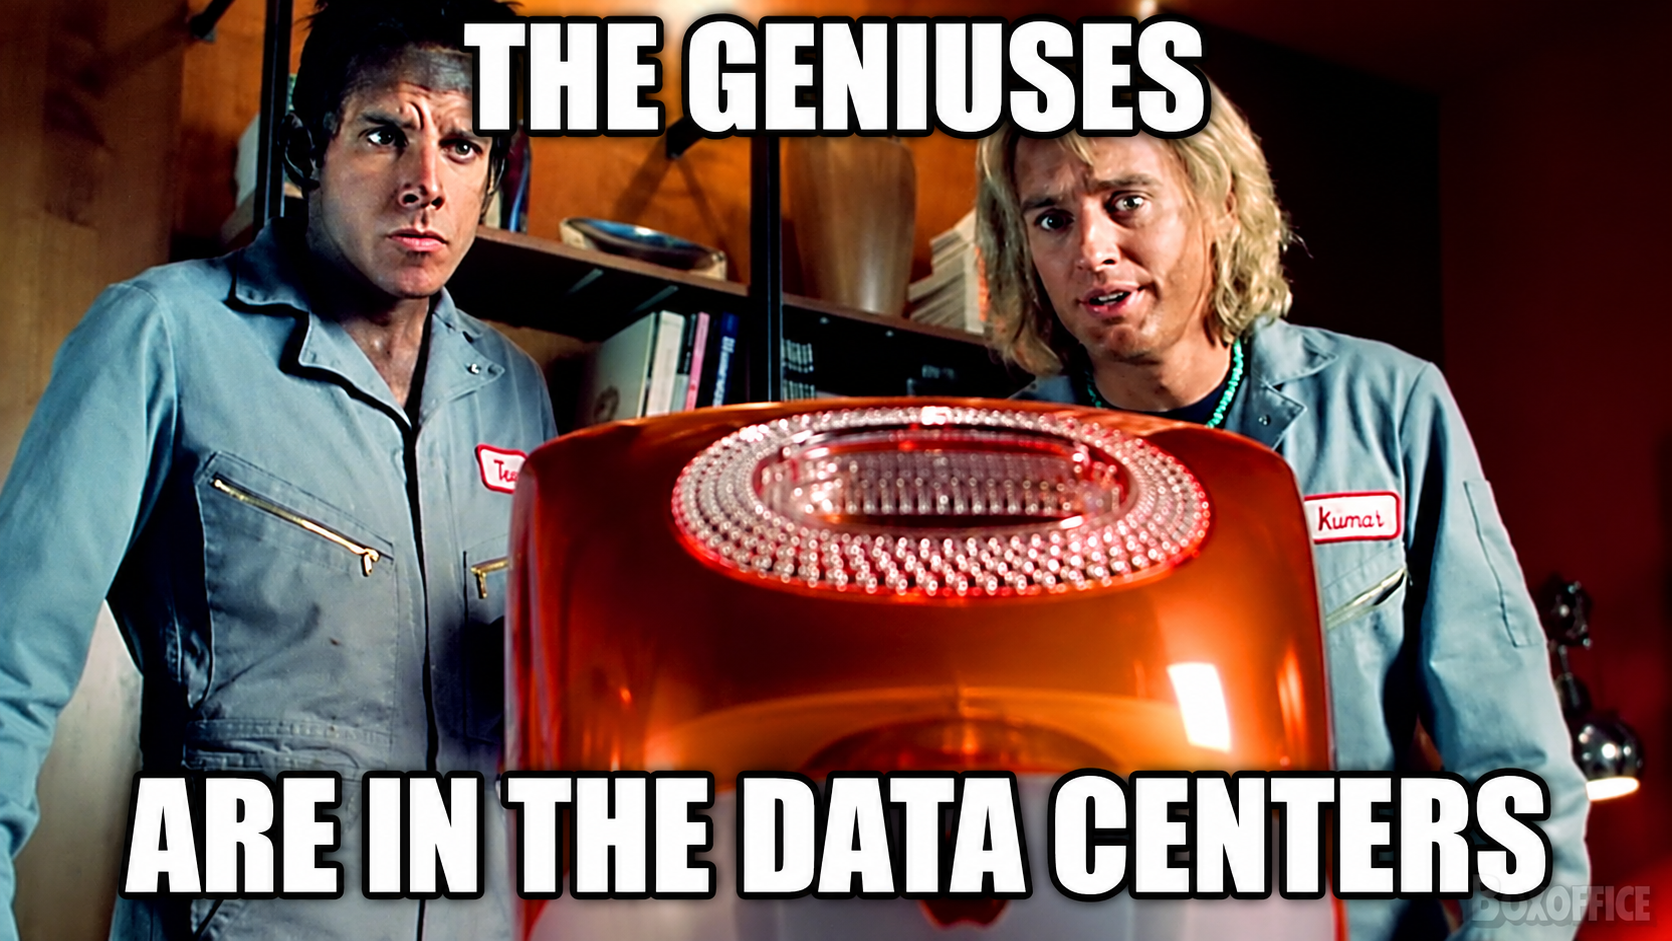
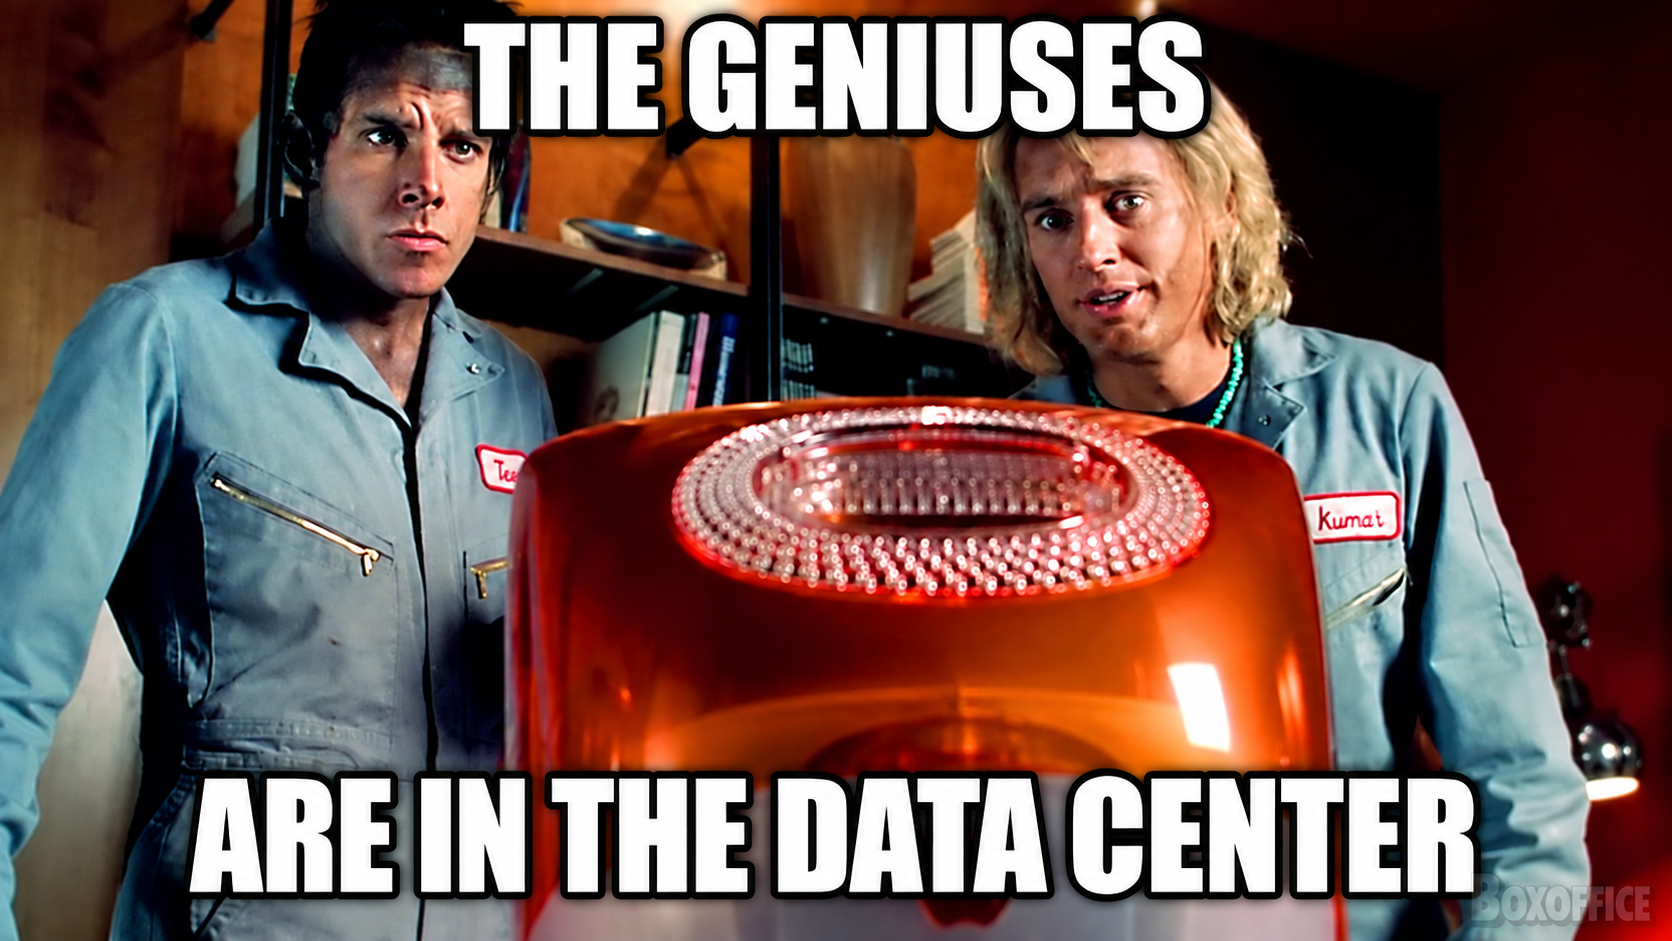
Use singular data center in Zoolander meme

diff --git a/public/posts/ai2026-pt2/index.html b/public/posts/ai2026-pt2/index.html
@@ -2,7 +2,7 @@
 <html lang="en"><head><meta charset="utf-8"><meta name="viewport" content="width=device-width,initial-scale=1"><title>AI 2026 · Part 2, Models — Rhys Lindmark</title><meta name="description" content="OpenAI and Anthropic: revenue, growth, and the economics of models."><meta name="robots" content="noindex"><link rel="canonical" href="https://www.rhyslindmark.com/posts/ai2026-pt2/"><link rel="stylesheet" href="/posts/ai2026-pt1/style.css"><link rel="stylesheet" href="/posts/ai2026-pt2/style.css?v=continuation-2"><script src="/posts/ai2026-pt1/intro/building-intro.js?v=country-focus" defer></script><script src="/posts/ai2026-pt2/chart.js?v=continuation-2" defer></script><script src="/posts/ai2026-pt2/vortex.js" defer></script></head><body class="all-mode">
 <a class="skip" href="#sources">Skip to sources &amp; data</a><header><a class="brand" href="/">Rhys</a></header><main id="article"><h1 class="sr-only">AI 2026 · Part 2, Models</h1>
 <ai-building-intro id="intro" part-label="AI 2026 / PART 2" focus-floor="brains" image-src="/posts/ai2026-pt1/intro/building.webp"></ai-building-intro>
-<section class="scene models meme" id="1" data-kind="meme"><div class="sticky"><figure aria-label="The geniuses are in the data centers"><div class="meme-frame"><img src="/posts/ai2026-pt2/zoolander-hd.png" width="1672" height="941" alt="Zoolander meme: The geniuses are in the data centers."></div></figure><div class="track" aria-hidden="true"><span></span></div></div></section>
+<section class="scene models meme" id="1" data-kind="meme"><div class="sticky"><figure aria-label="The geniuses are in the data center"><div class="meme-frame"><img src="/posts/ai2026-pt2/zoolander-hd.png?v=singular" width="1672" height="941" alt="Zoolander meme: The geniuses are in the data center."></div></figure><div class="track" aria-hidden="true"><span></span></div></div></section>
 <section class="scene models revenue" id="2" data-kind="revenue"><div class="sticky"><div class="passage"><h2>OpenAI and Anthropic are massive.</h2></div><figure aria-label="Annualized revenue · USD · log scale"><div class="plot-wrap"><svg role="img" aria-label="Annualized revenue · USD · log scale" hidden></svg><img class="fallback" src="/posts/ai2026-pt2/revenue.jpg" alt="Annualized revenue · USD · log scale"></div><div class="legend"></div><figcaption><a href="https://epochai.substack.com/p/an-update-on-ais-most-important-number">Epoch AI · CC BY · adapted</a></figcaption></figure><div class="track" aria-hidden="true"><span></span></div></div></section>
 <section class="scene models growth" id="3" data-kind="growth"><div class="sticky"><div class="passage"><h2>They’re the fastest-growing companies we’ve ever seen.</h2></div><figure aria-label="Company revenue growth over time"><div class="plot-wrap"><svg role="img" aria-label="Company revenue growth over time" hidden></svg><img class="fallback" src="/posts/ai2026-pt2/growth.jpg" alt="Company revenue growth over time"></div><div class="legend"></div></figure><div class="track" aria-hidden="true"><span></span></div></div></section>
 <section class="scene models margins" id="4" data-kind="margins" data-steps="4,5,6"><div class="sticky"><div class="passage"><h2 data-passage="4">There is a massive difference vs. Nvidia though — Ant &amp; OAI have terrible margins.</h2><h2 data-passage="5" hidden>OpenAI and Ant both spend $60 on COGS (inference) to make $100 of revenue.</h2><h2 data-passage="6" hidden>But OpenAI spends ~$160 on opex (training R&amp;D) vs. Anthropic’s $40.</h2></div><figure aria-label="Chip vs. model margins"><div class="plot-wrap"><svg role="img" aria-label="Chip vs. model margins" hidden></svg><img class="fallback" src="/posts/ai2026-pt2/margins.jpg" alt="Chip vs. model margins"></div><div class="legend"></div><figcaption>Related reading: <a href="https://cdn.jpmorganfunds.com/content/dam/jpm-am-aem/global/en/insights/eye-on-the-market/semiquincententacles-amv.pdf">J.P. Morgan · AI economics</a> · <a href="https://investor.nvidia.com/news/press-release-details/2025/NVIDIA-Announces-Financial-Results-for-Third-Quarter-Fiscal-2026/">NVIDIA financial results</a></figcaption></figure><div class="track" aria-hidden="true"><span></span></div></div></section>
